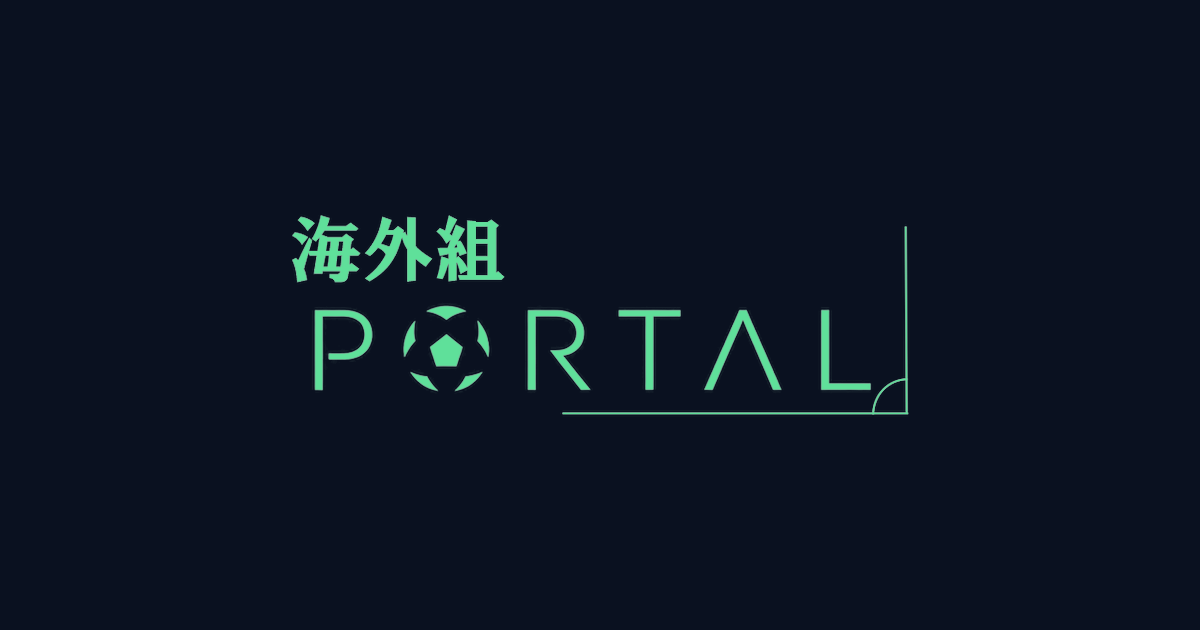
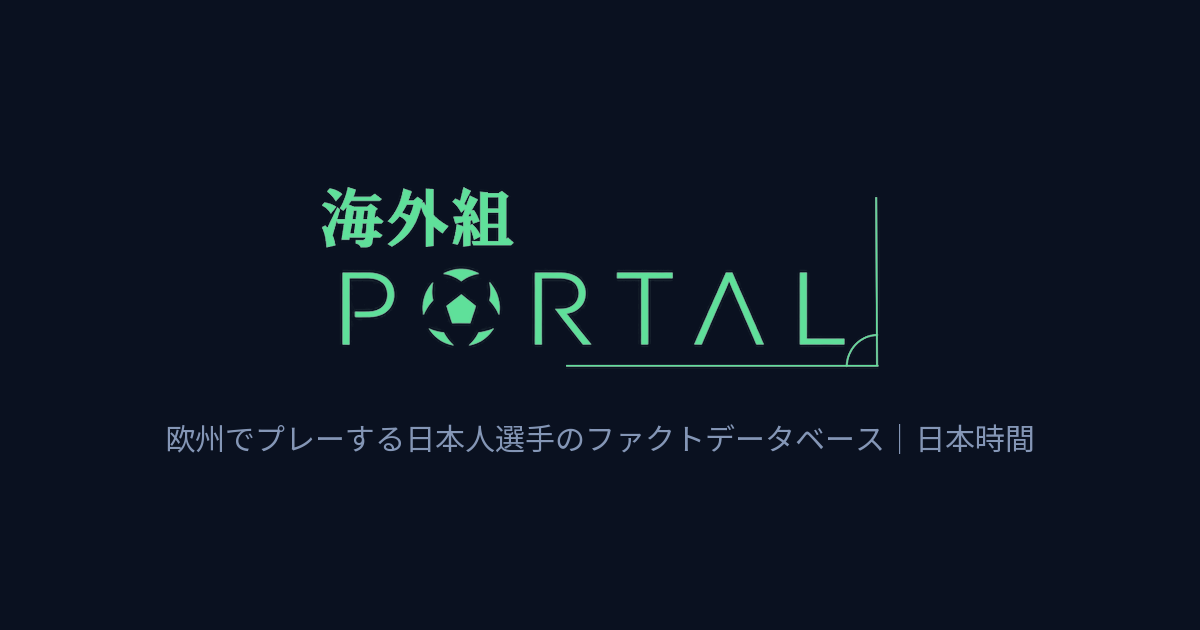
共有カードをバナーの形にそろえ、SNSに読み直させた
Xに投稿したとき、緑地に白いボールという古いカードが出ていた。
公開しているファイル自体は新しいものに差し替わっていたが、
SNSは一度読んだ画像をURLごとに保存するため、古いものを出し続けていた。

絵柄をXのヘッダーと同じ形にした。ロゴと説明の2行で、掲載人数のような
変わる数字は入れない。あわせて参照するURLに版を付け、読み直させた。
絵柄を変えたときはこの版を上げる——CLAUDE.md にも書いた。

Changed region(s): [[0.1233, 0.3016, 0.7708, 0.7238], [0.7708, 0.6635, 0.8633, 0.7238], [0.74, 0.3921, 0.7708, 0.4524]]

diff --git a/src/app/layout.tsx b/src/app/layout.tsx
@@ -7,6 +7,12 @@ import { ThemeToggle } from "@/components/ThemeToggle";
 import "./globals.css";
 import { Jp } from "@/lib/jp";
 
+/*
+ * 共有カードの版。SNSは一度読んだ画像をURLごとに保存し、中身を差し替えても
+ * しばらく古いものを出し続ける。絵柄を変えたらこの数字を上げる。
+ */
+const OG = "/og.png?v=2";
+
 export const metadata: Metadata = {
   metadataBase: new URL(SITE_URL),
   title: {
@@ -35,11 +41,11 @@ export const metadata: Metadata = {
     type: "website",
     locale: "ja_JP",
     siteName: SITE_NAME,
-    images: [{ url: "/og.png", width: 1200, height: 630, alt: SITE_NAME }],
+    images: [{ url: OG, width: 1200, height: 630, alt: SITE_NAME }],
   },
   twitter: {
     card: "summary_large_image",
-    images: ["/og.png"],
+    images: [OG],
   },
   icons: {
     icon: [

diff --git a/scripts/make-brand.py b/scripts/make-brand.py
@@ -15,7 +15,7 @@ import io
 import os
 from collections import deque
 
-from PIL import Image, ImageDraw
+from PIL import Image, ImageDraw, ImageFont
 
 ROOT = os.getcwd()
 SRC = os.path.join(ROOT, "scripts/brand")
@@ -165,12 +165,20 @@ def main():
     os.makedirs(os.path.join(ROOT, "output"), exist_ok=True)
     save(avatar, "x-avatar.png", where=os.path.join(ROOT, "output"))
 
-    # 既定の共有カード。ページごとの og.png が無いときに出る。
-    # 濃紺にミントで、選手ページのカードと同じ見え方にそろえる
+    # 既定の共有カード。ページごとの og.png を持たないページで出る。
+    # Xのヘッダーと同じ見え方にそろえる（ロゴと説明の2行）。
     card = Image.new("RGBA", (1200, 630), (0x0A, 0x11, 0x20, 255))
-    lw = 620
+    lw = 560
     mark = tinted(wide.resize((lw, round(lw * wide.height / wide.width)), Image.LANCZOS), MINT)
-    card.paste(mark, ((1200 - mark.width) // 2, (630 - mark.height) // 2), mark)
+    tagline = "欧州でプレーする日本人選手のファクトデータベース｜日本時間"
+    font = ImageFont.truetype(os.path.join(ROOT, "scripts/fonts/og-regular.ttf"), 30)
+    draw = ImageDraw.Draw(card)
+    tw = draw.textlength(tagline, font=font)
+    gap = 46
+    block = mark.height + gap + 30
+    top = (630 - block) // 2
+    card.paste(mark, ((1200 - mark.width) // 2, top), mark)
+    draw.text(((1200 - tw) / 2, top + mark.height + gap), tagline, font=font, fill=(0x84, 0x96, 0xB6, 255))
     save(card, "og.png")
 
     print(f"原画: 横組み {wide.size[0]}×{wide.size[1]} / ボール {ball.size[0]}×{ball.size[1]}")
